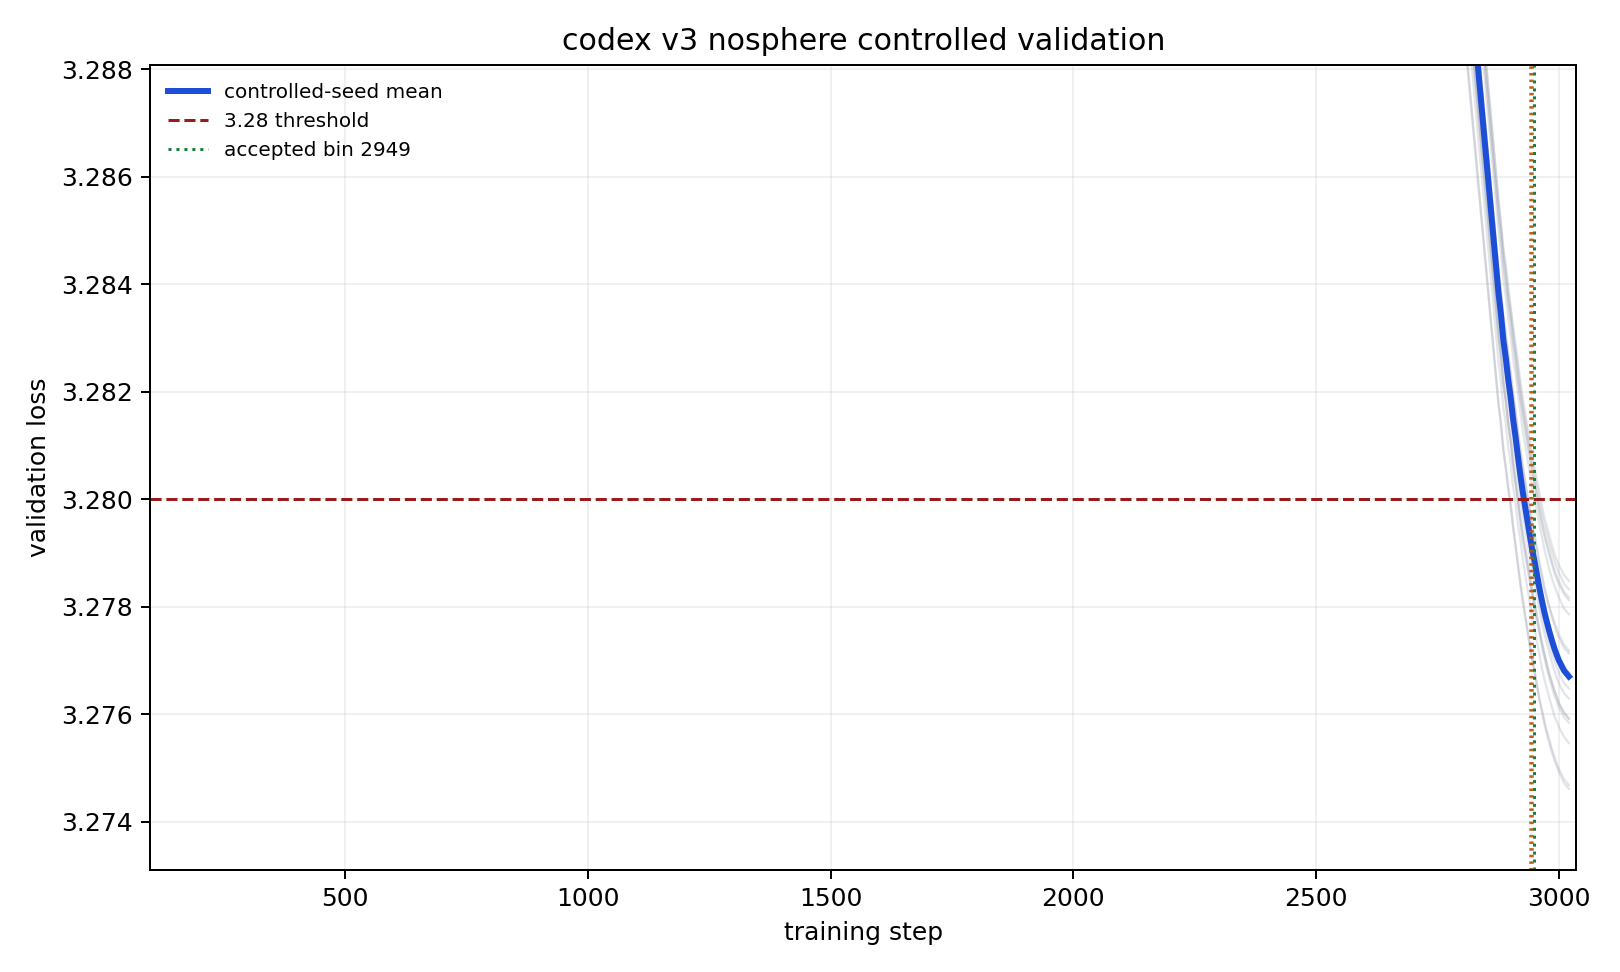
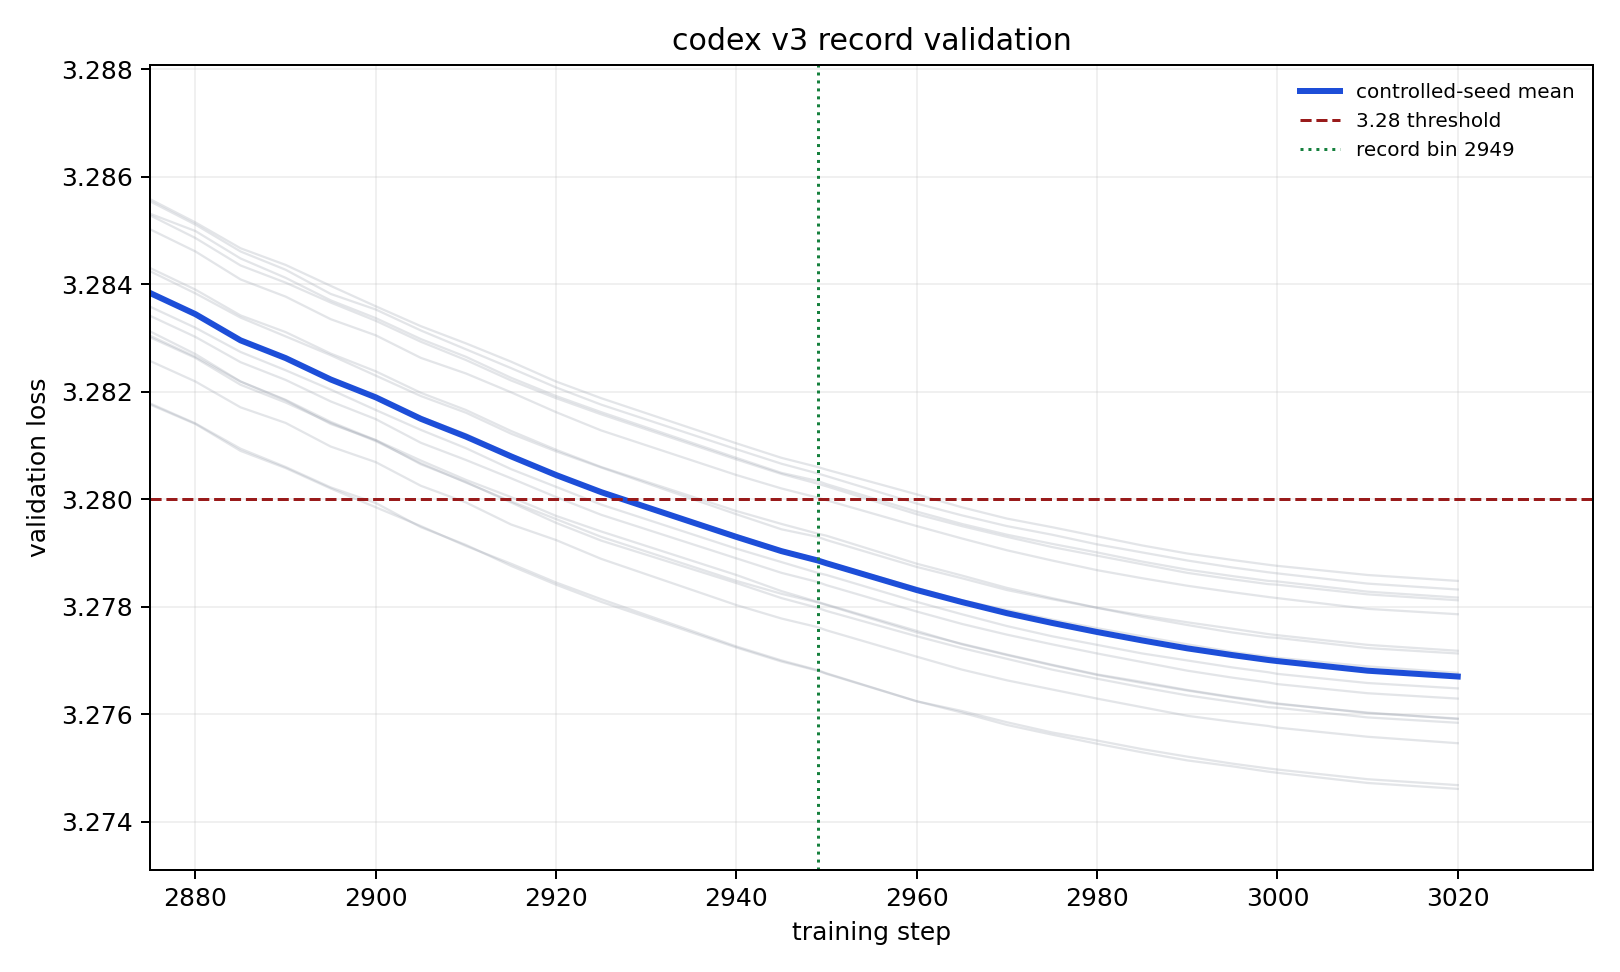
Simplify codex v3 record presentation

diff --git a/records/track_3_optimization/results/20260515_codex_v3_nosphere_2949/README.md b/records/track_3_optimization/results/20260515_codex_v3_nosphere_2949/README.md
@@ -11,18 +11,6 @@ This stack starts from the public PR #291/#294 lineage and compresses it with co
 5. CGI gain split (`alpha=0.14`), depth-scaled `mlp.fc` init (`alpha=0.30`), zero-init proj weights, embed init `* 0.7`, and PR #287 power-law cooldown constants with `train_steps=3020`, `schedule_steps=3025`.
 6. W258 pruning choice: the sphere-lookahead pull is disabled (`SPHERE_LOOKAHEAD_PULL=0.0`), hence the submitted `nosphere` stack.
 
-### Note on the bin
-
-The originally named revalidation target was 2940. Controlled n=16 validation shows both 2940 and 2945 miss the fixed Track 3 threshold, while 2949 clears it:
-
-```text
-2940: n=16, mean=3.27929875, margin=[phone redacted]
-2945: n=16, mean=3.27903375, margin=[phone redacted]
-2949: n=16, mean=3.27886125, margin=[phone redacted]
-```
-
-This PR claims the honest first logged checkpoint that passes: **2949**.
-
 ## Result
 
 The submitted step count is **2949**. The result directory contains 16 full reproducibility logfiles for seeds 0 through 15. The runs continue to `train_steps=3020`, but the submitted bin is the logged step-2949 checkpoint, matching the same intermediate-checkpoint style as the existing PR #1 on this fork.
@@ -38,27 +26,27 @@ std            = 0.00125939
 
 This exceeds the Track 3 README threshold of `0.004`. Equivalently, with `sigma=0.0013`, this is `z = 3.5038`, one-sided `p = 0.000229`, satisfying `p < 0.001`.
 
-| Seed | 2940 val | 2949 val | 3020 val |
-| -: | -: | -: | -: |
-| 0 | 3.27859 | 3.27809 | 3.27591 |
-| 1 | 3.27978 | 3.27936 | 3.27718 |
-| 2 | 3.27908 | 3.27863 | 3.27648 |
-| 3 | 3.27933 | 3.27889 | 3.27677 |
-| 4 | 3.28077 | 3.28034 | 3.27817 |
-| 5 | 3.27848 | 3.27808 | 3.27592 |
-| 6 | 3.27890 | 3.27846 | 3.27629 |
-| 7 | 3.27724 | 3.27681 | 3.27461 |
-| 8 | 3.28104 | 3.28060 | 3.27848 |
-| 9 | 3.27972 | 3.27930 | 3.27713 |
-| 10 | 3.27844 | 3.27798 | 3.27584 |
-| 11 | 3.28093 | 3.28048 | 3.27832 |
-| 12 | 3.28045 | 3.28003 | 3.27786 |
-| 13 | 3.27726 | 3.27682 | 3.27468 |
-| 14 | 3.27803 | 3.27762 | 3.27546 |
-| 15 | 3.28074 | 3.28029 | 3.27812 |
-| **Mean** | **3.27930** | **3.27886** | **3.27670** |
+| Seed | 2949 val | 3020 val |
+| -: | -: | -: |
+| 0 | 3.27809 | 3.27591 |
+| 1 | 3.27936 | 3.27718 |
+| 2 | 3.27863 | 3.27648 |
+| 3 | 3.27889 | 3.27677 |
+| 4 | 3.28034 | 3.27817 |
+| 5 | 3.27808 | 3.27592 |
+| 6 | 3.27846 | 3.27629 |
+| 7 | 3.27681 | 3.27461 |
+| 8 | 3.28060 | 3.27848 |
+| 9 | 3.27930 | 3.27713 |
+| 10 | 3.27798 | 3.27584 |
+| 11 | 3.28048 | 3.27832 |
+| 12 | 3.28003 | 3.27786 |
+| 13 | 3.27682 | 3.27468 |
+| 14 | 3.27762 | 3.27546 |
+| 15 | 3.28029 | 3.27812 |
+| **Mean** | **3.27886** | **3.27670** |
 
-## Comparison to failed target
+## Loss Curve
 
 ![loss curves](loss_curves.png)
 
@@ -66,7 +54,7 @@ This exceeds the Track 3 README threshold of `0.004`. Equivalently, with `sigma=
 
 ![stack contribution](pruning.png)
 
-Per-component contributions are from the W258 leave-one-out sweep at step 2949. Deltas are relative to the `nosphere` baseline from that same sweep; the independent accepted-bin statistic above comes from the 16-seed revalidation directory. Raw numbers are in `pruning_data.json`.
+Per-component contributions are from the W258 leave-one-out sweep at step 2949. Raw numbers are in `pruning_data.json`.
 
 ## Files
 